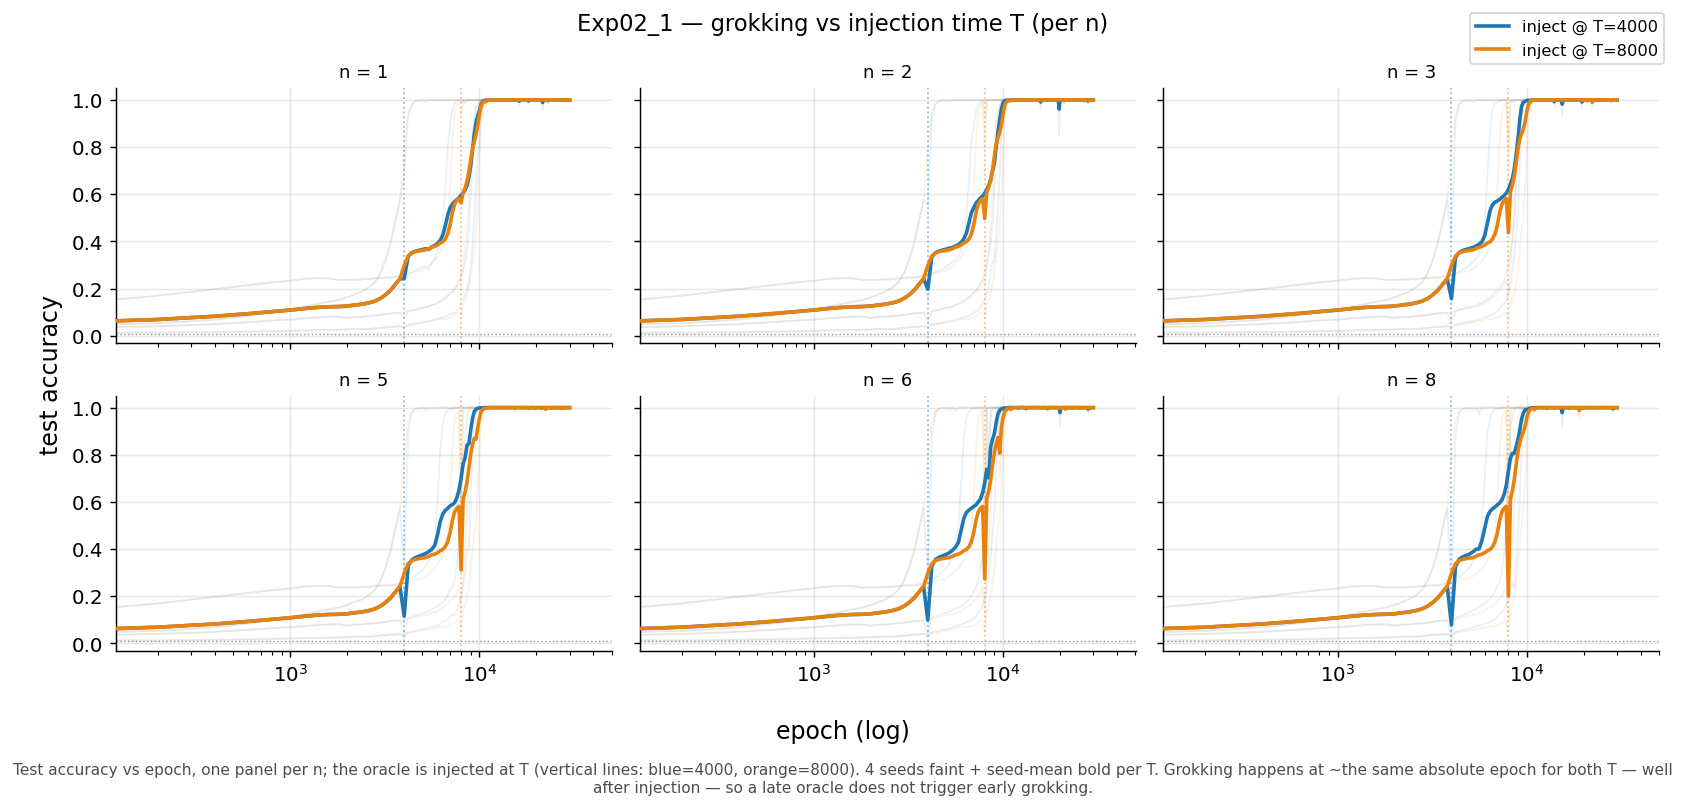
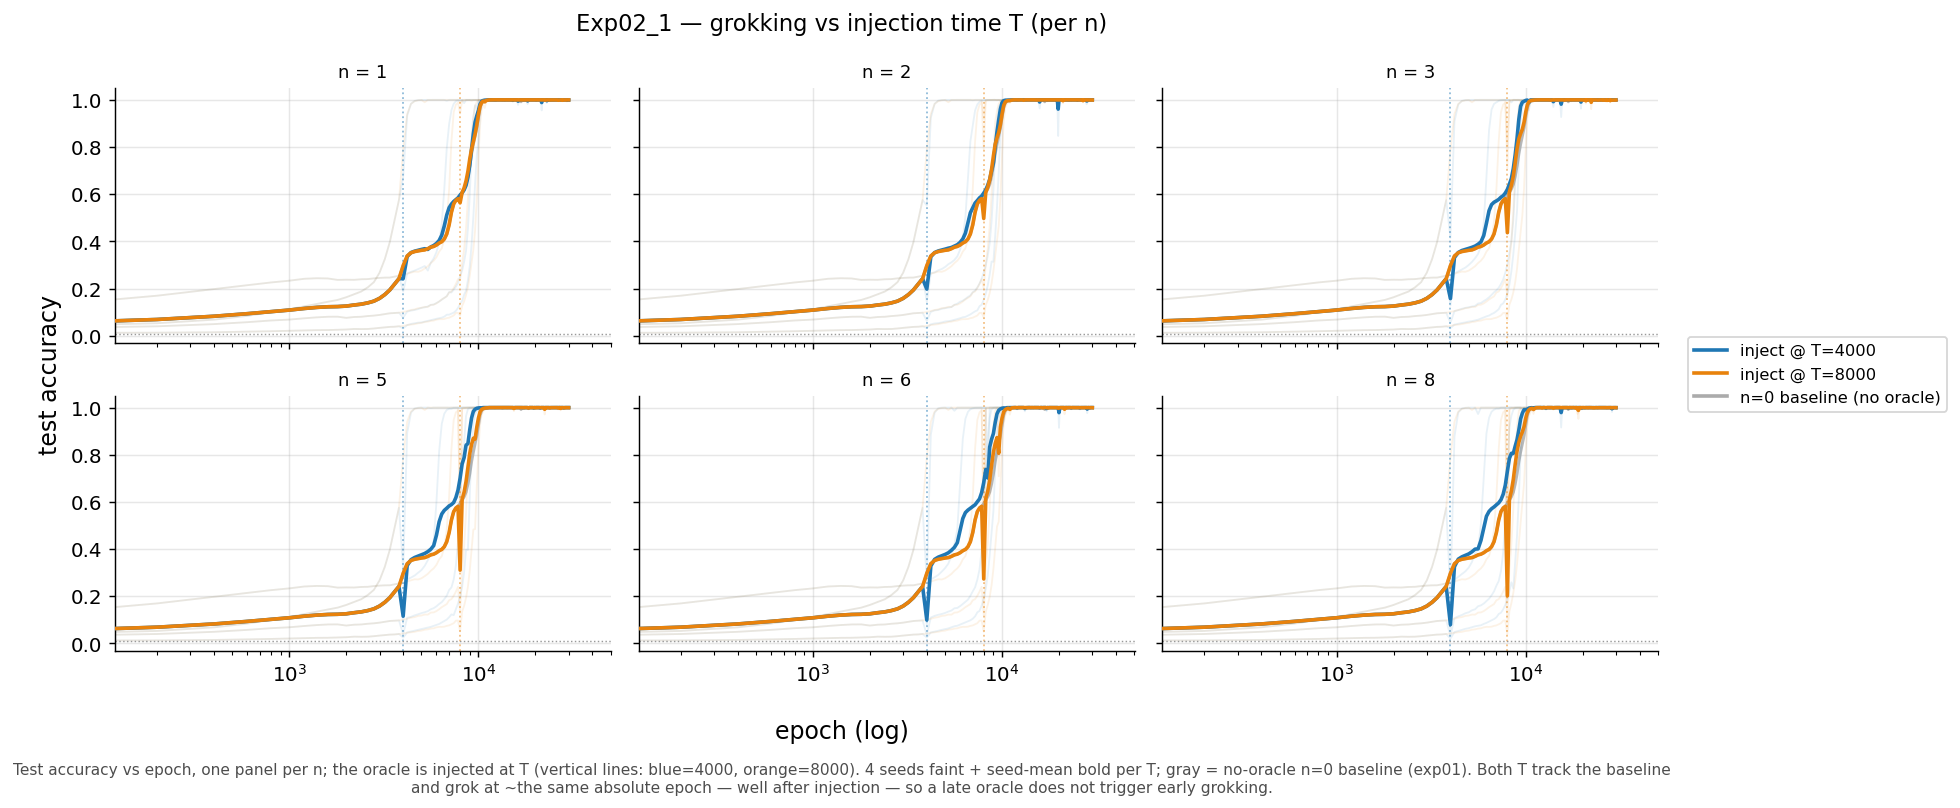
oracle: exp02_1 ablation split by injection time + translucent n=0 baseline
The pooled ON-vs-OFF ablation was incoherent: 'before T' differs between the
4000 and 8000 runs, so averaging them muddied the one clean signal. Now one
ablation figure per injection time (ablation_T4000, ablation_T8000): ON≈OFF
before T (ON marginally lower — an untrained injected signal mildly perturbs),
the ON>OFF gap opens only AFTER T.

Adds the no-oracle n=0 baseline (from exp01, same model, oracle never injected)
as a translucent reference in every exp02_1 figure: test-acc curve in
grok/ablation, natural W_E power on each n's injected freqs in uptake, grok-epoch
band in grok_vs_n. Figure legend moved to the right margin to avoid panel-title
overlap.

diff --git a/oracle/experiments/plot_exp02_1.py b/oracle/experiments/plot_exp02_1.py
@@ -2,12 +2,14 @@
 
 The oracle is held OFF until epoch T (delay), then switched ON. Question: does a
 late-arriving oracle get adopted / drive grokking? Two delays T in {4000, 8000}
-x n in {1,2,3,5,6,8} x 4 seeds.
+x n in {1,2,3,5,6,8} x 4 seeds. exp02_1 has no n=0 of its own (nothing to inject
+at epoch 0), so the no-oracle reference is taken from exp01's n=0 — the same
+model (p=113, frac_train=0.3, 30k) with the oracle never injected — and drawn
+translucently in every figure.
 
-Redo of the earlier busy n-overlaid panels: now ONE panel per n (2x3 grid), with
-the two injection times shown as two colours (blue=4000, orange=8000) and their
-injection moments as vertical lines. Includes an ON-vs-OFF ablation figure in
-the same style as the other experiments. Run:
+One panel per n (2x3). Injection time shown as two colours (blue=4000,
+orange=8000) with vertical lines at T; the ablation is split into one figure per
+T (pooling the two T is meaningless — 'before T' differs between them). Run:
     .venv/bin/python modular_addition/oracle/experiments/plot_exp02_1.py [results_dir]
 """
 import math
@@ -25,6 +27,7 @@ EXP = "exp02_1"
 CHANCE = 1.0 / 113
 T_COL = {4000: "#1f77b4", 8000: "#e8820c"}      # injection time -> colour
 ON_C, OFF_C = "#1f77b4", "#d62728"
+BASE_C = "0.45"                                 # n=0 baseline (no oracle)
 DEFAULT_RES = (Path(__file__).resolve().parents[1] / "results" /
                "run_20260612_200000")
 
@@ -47,11 +50,57 @@ def _snap(fn):
             lambda r: pc.snap_series(r, fn)[1])
 
 
+def _mean_curve(runs, x_fn, y_fn):
+    """Seed-mean (x, y) over a run list, interpolated onto the densest grid."""
+    series = [(x_fn(r), y_fn(r)) for r in runs]
+    series = [(x, y) for x, y in series if len(x) and len(x) == len(y)]
+    if not series:
+        return None
+    grid = max((s[0] for s in series), key=len)
+    return grid, np.vstack([np.interp(grid, x, y) for x, y in series]).mean(0)
+
+
+def _baseline_acc_drawer(base):
+    """Returns f(ax, n) drawing the no-oracle baseline test-acc curve."""
+    curve = _mean_curve(
+        base,
+        lambda r: np.clip(pc.hist_series(r, "test_acc")[0], 1, None),
+        lambda r: pc.hist_series(r, "test_acc")[1]) if base else None
+
+    def draw(ax, n):
+        if curve:
+            ax.plot(*curve, color=BASE_C, alpha=0.5, lw=1.7, zorder=1)
+    return draw
+
+
+def _baseline_uptake_drawer(base, runs):
+    """Returns f(ax, n) drawing the no-oracle W_E power fraction on n's injected
+    freqs — i.e. what a model that never saw the oracle naturally puts there."""
+    def draw(ax, n):
+        if not base:
+            return
+        sel = pc.select(runs, n=n)
+        inj = sel[0]["_axes"].get("freqs", []) if sel else []
+        if not inj:
+            return
+        fn = lambda s: (sum(s["we_freq_power_full"][f - 1] for f in inj) /
+                        sum(s["we_freq_power_full"])
+                        if s.get("we_freq_power_full") else None)
+        curve = _mean_curve(base,
+                            lambda r: np.clip(pc.snap_series(r, fn)[0], 1, None),
+                            lambda r: pc.snap_series(r, fn)[1])
+        if curve:
+            ax.plot(*curve, color=BASE_C, alpha=0.5, lw=1.7, zorder=1)
+    return draw
+
+
 def by_delay_panels(runs, ns, outdir, x_fn, y_fn, ylabel, title, name, cap,
-                    chance=False):
-    """One panel per n; the two delays drawn as two colours (seeds faint + mean)."""
+                    baseline_draw, chance=False):
+    """One panel per n; the two delays as two colours (seeds faint + mean),
+    plus the translucent n=0 baseline."""
     fig, axes = _grid(ns)
     for ax, n in zip(axes.flat, ns):
+        baseline_draw(ax, n)
         for t, c in T_COL.items():
             pc.seed_family(ax, pc.select(runs, n=n, delay=t),
                            x_fn=x_fn, y_fn=y_fn, color=c,
@@ -66,49 +115,63 @@ def by_delay_panels(runs, ns, outdir, x_fn, y_fn, ylabel, title, name, cap,
     for ax in axes.flat[len(ns):]:
         ax.set_visible(False)
     fig.legend(handles=[Line2D([], [], color=T_COL[4000], lw=2, label="inject @ T=4000"),
-                        Line2D([], [], color=T_COL[8000], lw=2, label="inject @ T=8000")],
-               loc="upper right", bbox_to_anchor=(0.995, 0.99), frameon=True)
+                        Line2D([], [], color=T_COL[8000], lw=2, label="inject @ T=8000"),
+                        Line2D([], [], color=BASE_C, lw=2, alpha=0.6, label="n=0 baseline (no oracle)")],
+               loc="center left", bbox_to_anchor=(1.0, 0.5), frameon=True)
     fig.supxlabel("epoch (log)")
     fig.supylabel(ylabel)
     fig.suptitle(title, fontsize=12.5)
     pc.save(fig, outdir / name, cap=cap)
 
 
-def fig_ablation(runs, ns, outdir):
-    """ON vs OFF accuracy per n (both injection times pooled)."""
-    ax_on_x, ax_on_y = _snap(lambda s: (s.get("ablation_test") or {}).get("acc_on"))
-    ax_off_x, ax_off_y = _snap(lambda s: (s.get("ablation_test") or {}).get("acc_off"))
-    fig, axes = _grid(ns)
-    for ax, n in zip(axes.flat, ns):
-        sel = pc.select(runs, n=n)
-        pc.seed_family(ax, sel, x_fn=ax_on_x, y_fn=ax_on_y,
-                       color=ON_C, alpha_seed=0.10, lw_mean=2.0)
-        pc.seed_family(ax, sel, x_fn=ax_off_x, y_fn=ax_off_y,
-                       color=OFF_C, alpha_seed=0.10, lw_mean=2.0)
-        _t_lines(ax)
-        ax.set_title(f"n = {n}", fontsize=10)
-        ax.set_xscale("log")
-        ax.set_xlim(left=120)
-        ax.set_ylim(-0.03, 1.05)
-    for ax in axes.flat[len(ns):]:
-        ax.set_visible(False)
-    fig.legend(handles=[Line2D([], [], color=ON_C, lw=2, label="oracle ON"),
-                        Line2D([], [], color=OFF_C, lw=2, label="oracle OFF")],
-               loc="upper right", bbox_to_anchor=(0.995, 0.99), frameon=True)
-    fig.supxlabel("epoch (log)")
-    fig.supylabel("test accuracy")
-    fig.suptitle("Exp02_1 — causal use: accuracy with the live oracle ON vs OFF "
-                 "(per n; both T pooled)", fontsize=12.5)
-    pc.save(fig, outdir / "ablation.png", cap=(
-        "Accuracy with the live oracle ON (blue) vs switched OFF at inference "
-        "(red), per n; runs from both injection times pooled (vertical lines = "
-        "the two T). After grok acc_off ≈ acc_on ≈ 1 — the model is independent "
-        "of the live oracle, so a delayed oracle is not used as a crutch."))
+def fig_ablation_by_T(runs, ns, outdir, baseline_draw):
+    """ON vs OFF accuracy per n — a SEPARATE figure per injection time T, so the
+    before-T (ON≈OFF) vs after-T (gap opens) structure stays coherent."""
+    on_x, on_y = _snap(lambda s: (s.get("ablation_test") or {}).get("acc_on"))
+    off_x, off_y = _snap(lambda s: (s.get("ablation_test") or {}).get("acc_off"))
+    for T in T_COL:
+        fig, axes = _grid(ns)
+        for ax, n in zip(axes.flat, ns):
+            baseline_draw(ax, n)
+            sel = pc.select(runs, n=n, delay=T)
+            pc.seed_family(ax, sel, x_fn=on_x, y_fn=on_y,
+                           color=ON_C, alpha_seed=0.12, lw_mean=2.0)
+            pc.seed_family(ax, sel, x_fn=off_x, y_fn=off_y,
+                           color=OFF_C, alpha_seed=0.12, lw_mean=2.0)
+            ax.axvline(T, color="0.25", ls="--", lw=1.1)
+            ax.set_title(f"n = {n}", fontsize=10)
+            ax.set_xscale("log")
+            ax.set_xlim(left=120)
+            ax.set_ylim(-0.03, 1.05)
+        for ax in axes.flat[len(ns):]:
+            ax.set_visible(False)
+        fig.legend(handles=[Line2D([], [], color=ON_C, lw=2, label="oracle ON"),
+                            Line2D([], [], color=OFF_C, lw=2, label="oracle OFF"),
+                            Line2D([], [], color="0.25", ls="--", lw=1.1, label=f"inject @ {T}"),
+                            Line2D([], [], color=BASE_C, lw=2, alpha=0.6, label="n=0 baseline (no oracle)")],
+                   loc="center left", bbox_to_anchor=(1.0, 0.5), frameon=True)
+        fig.supxlabel("epoch (log)")
+        fig.supylabel("test accuracy")
+        fig.suptitle(f"Exp02_1 — ablation (oracle ON vs OFF), injection @ T={T} "
+                     "(per n)", fontsize=12.5)
+        pc.save(fig, outdir / f"ablation_T{T}.png", cap=(
+            f"Accuracy with the live oracle ON (blue) vs OFF (red) at inference; "
+            f"the oracle is injected at epoch {T} (dashed line), per n (4 seeds + "
+            "mean; gray = no-oracle n=0 baseline). Before T the two curves nearly "
+            "coincide (ON marginally lower — an injected signal the model wasn't "
+            "trained on mildly perturbs it); the ON>OFF gap opens only AFTER T, as "
+            "the model starts to use the oracle. OFF tracks the n=0 baseline — the "
+            "model ends up nearly independent of the live signal."))
 
 
-def fig_grok_vs_n(runs, ns, outdir):
+def fig_grok_vs_n(runs, ns, outdir, base):
     fig, ax = plt.subplots(figsize=(7.5, 4.6))
     rng = np.random.default_rng(0)
+    bg = [pc.grok_epoch(r) for r in base] if base else []
+    bg = [v for v in bg if v is not None]
+    if bg:
+        ax.axhspan(min(bg), max(bg), color=BASE_C, alpha=0.13, zorder=0)
+        ax.axhline(np.mean(bg), color=BASE_C, ls="--", lw=1.3, alpha=0.7, zorder=1)
     for i, n in enumerate(ns):
         for t, c in T_COL.items():
             g = [pc.grok_epoch(r) for r in pc.select(runs, n=n, delay=t)]
@@ -125,13 +188,15 @@ def fig_grok_vs_n(runs, ns, outdir):
            ylabel="grok epoch", yscale="log",
            title="Exp02_1 — grok epoch vs n, by injection time T")
     ax.legend(handles=[Line2D([], [], marker="o", ls="", color=T_COL[4000], label="T=4000"),
-                       Line2D([], [], marker="o", ls="", color=T_COL[8000], label="T=8000")],
+                       Line2D([], [], marker="o", ls="", color=T_COL[8000], label="T=8000"),
+                       Line2D([], [], color=BASE_C, ls="--", lw=1.3, alpha=0.7, label="n=0 baseline grok (band)")],
               fontsize=9, loc="upper right")
     pc.save(fig, outdir / "grok_vs_n.png", cap=(
         "Grok epoch vs n for the two injection times (dots = seeds, bar = mean; "
-        "dotted lines mark T). Both T grok at ~the same absolute epoch (far above "
-        "their injection lines) regardless of when the oracle arrives — grokking "
-        "is on the model's own schedule, not injection-driven."))
+        "dotted lines mark T; gray band = no-oracle n=0 baseline grok range). "
+        "Both T grok within the no-oracle baseline band, far above their "
+        "injection lines — grokking is on the model's own schedule, not "
+        "injection-driven."))
 
 
 def main(res):
@@ -140,6 +205,12 @@ def main(res):
     pc.set_style()
     runs = pc.load_exp(res, EXP)
     ns = pc.axis_values(runs, "n")
+    try:
+        base = pc.select(pc.load_exp(res, "exp01"), n=0)    # no-oracle reference
+    except SystemExit:
+        base = []
+    base_acc = _baseline_acc_drawer(base)
+    base_uptake = _baseline_uptake_drawer(base, runs)
 
     by_delay_panels(
         runs, ns, outdir,
@@ -147,12 +218,12 @@ def main(res):
         y_fn=lambda r: pc.hist_series(r, "test_acc")[1],
         ylabel="test accuracy",
         title="Exp02_1 — grokking vs injection time T (per n)",
-        name="grok_dynamics.png", chance=True,
+        name="grok_dynamics.png", chance=True, baseline_draw=base_acc,
         cap=("Test accuracy vs epoch, one panel per n; the oracle is injected at "
              "T (vertical lines: blue=4000, orange=8000). 4 seeds faint + "
-             "seed-mean bold per T. Grokking happens at ~the same absolute epoch "
-             "for both T — well after injection — so a late oracle does not "
-             "trigger early grokking."))
+             "seed-mean bold per T; gray = no-oracle n=0 baseline (exp01). Both T "
+             "track the baseline and grok at ~the same absolute epoch — well "
+             "after injection — so a late oracle does not trigger early grokking."))
 
     by_delay_panels(
         runs, ns, outdir,
@@ -160,14 +231,16 @@ def main(res):
         y_fn=lambda r: pc.snap_series(r, pc.frac_we_power_injected)[1],
         ylabel="fraction of W_E power on injected freqs",
         title="Exp02_1 — embedding uptake vs injection time T (per n)",
-        name="uptake.png",
+        name="uptake.png", baseline_draw=base_uptake,
         cap=("Fraction of W_E Fourier power on the injected freqs vs epoch, per "
-             "n, by injection time T (vertical lines). The fraction does not jump "
-             "at T — the trainable embedding does not adopt the injected freqs "
-             "when they arrive late."))
+             "n, by injection time T (vertical lines); gray = the same fraction "
+             "for the no-oracle n=0 baseline (its natural power on those freqs). "
+             "The injected runs sit at ~the baseline level with no jump at T — "
+             "the embedding does not adopt the injected freqs when they arrive "
+             "late."))
 
-    fig_ablation(runs, ns, outdir)
-    fig_grok_vs_n(runs, ns, outdir)
+    fig_ablation_by_T(runs, ns, outdir, base_acc)
+    fig_grok_vs_n(runs, ns, outdir, base)
 
     print(f"wrote {len(list(outdir.glob('*.png')))} figures to {outdir}")
 

diff --git a/oracle/results/run_20260612_200000/figures/README.md b/oracle/results/run_20260612_200000/figures/README.md
@@ -63,8 +63,10 @@ the model adopt the injected freqs and grok shortly after T. **Verdict:
 contradicted — there is a critical period.**
 
 Minimalistic, subplot-only (one panel per n; the two injection times are two
-colours, blue=4000 / orange=8000, with vertical lines at T). Replaces the
-earlier busy n-overlaid panels.
+colours, blue=4000 / orange=8000, with vertical lines at T). The no-oracle
+**n=0 baseline is drawn translucently** in every figure as a reference — taken
+from exp01's n=0 (same model, oracle never injected), since exp02_1 has no n=0
+of its own. Replaces the earlier busy n-overlaid panels.
 
 **Finding (verified):** a late-arriving oracle is **completely ignored**.
 Injection gating is correct (`injecting` flips True at T), yet grok timing is
@@ -76,9 +78,9 @@ oracle-**independent** (acc_off≈0.75–1.0). Injection only shapes the circuit
 present from the start.
 
 - `grok_dynamics` — test acc per n; grok at ~baseline absolute epoch, not T+lag.
-- `uptake` — W_E power on injected freqs per n; flat, no jump at T.
-- `ablation` — accuracy oracle ON vs OFF per n (ON≈OFF≈1 ⇒ independent of the live oracle).
-- `grok_vs_n` — grok epoch vs n by T; both T grok far above their injection lines.
+- `uptake` — W_E power on injected freqs per n; sits at the n=0 baseline level, no jump at T.
+- `ablation_T4000` / `ablation_T8000` — accuracy oracle ON vs OFF per n, **one figure per injection time** (pooling them is meaningless — "before T" differs). ON≈OFF before T (ON marginally lower); the ON>OFF gap opens only *after* T; OFF tracks the n=0 baseline ⇒ the model ends up nearly independent.
+- `grok_vs_n` — grok epoch vs n by T; both T grok within the n=0 baseline band, far above their injection lines.
 
 ## exp02_2 — amplitude (0.5–4×), 7 figures ◐ partial
 **Hypothesis:** higher oracle amplitude makes W_E lazy (offload to oracle) and
